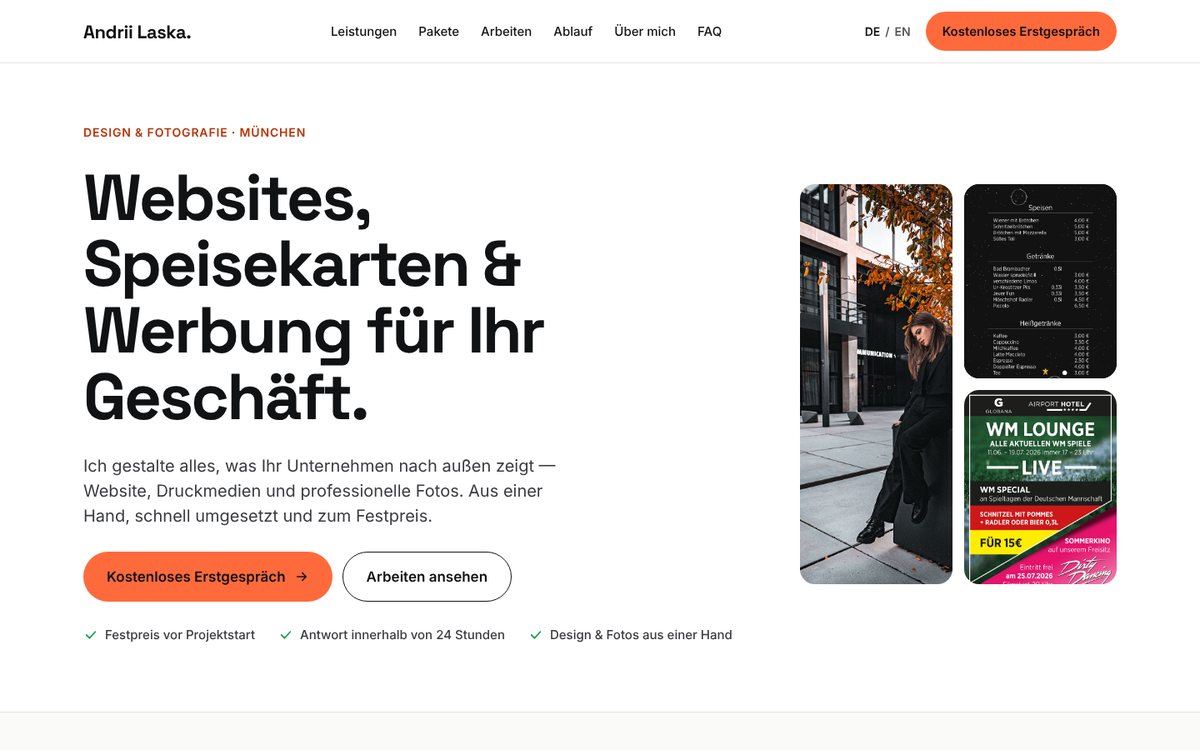
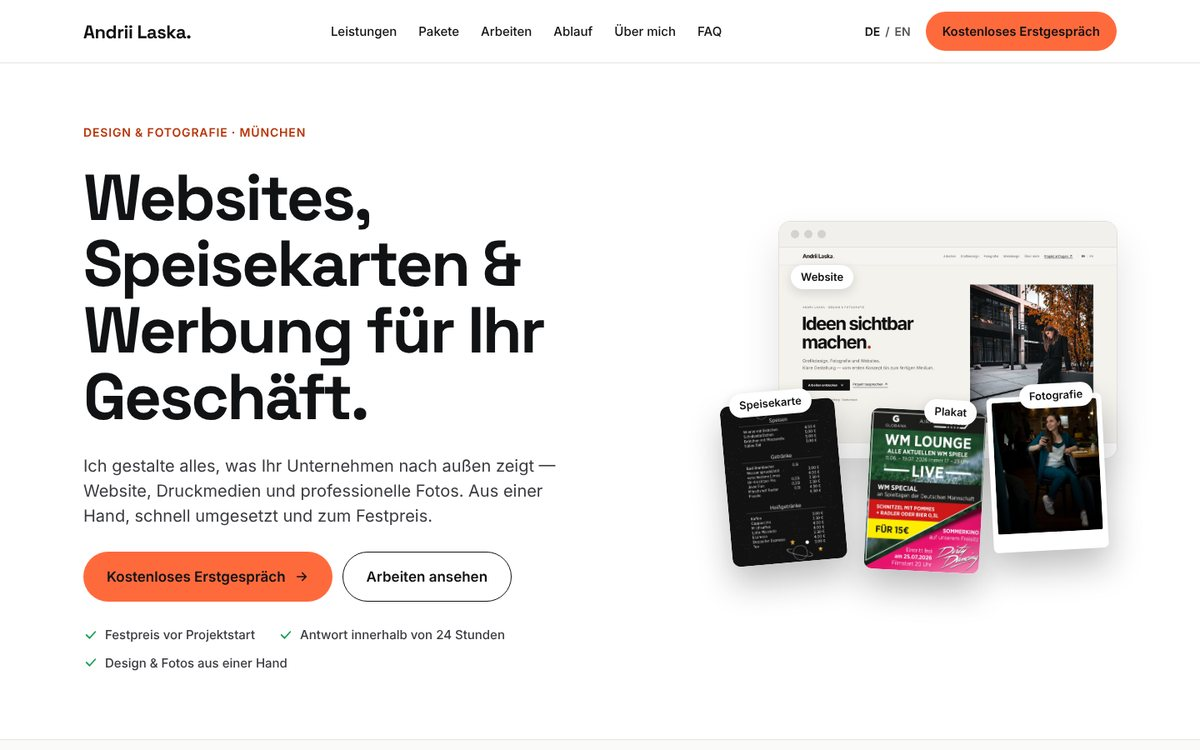
Arbeiten: Galaxien-Plakat statt Sommerkino, Sky du Mont ergänzt, Ost-Rock verschoben, aktueller Website-Screenshot
Claude-Session: https://claude.ai/code/session_017s33ag8cKpL8mX6Xy28NUa

Changed region(s): [[0.5858, 0.2453, 0.9558, 0.7973], [0.4625, 0.828, 0.6167, 0.8587], [0.0925, 0.8587, 0.2467, 0.8893]]

diff --git a/index.html b/index.html
@@ -28,9 +28,10 @@ section[id]{scroll-margin-top:80px}
 @media (max-width:640px){.hero{padding-top:40px!important;padding-bottom:64px!important}}
 .wg{display:grid;gap:28px 20px}
 .wg4{grid-template-columns:repeat(4,minmax(0,1fr))}
-.wgc{grid-template-columns:repeat(4,minmax(0,1fr))}
+.wgc{grid-template-columns:repeat(5,minmax(0,1fr))}
 .wg2{grid-template-columns:repeat(2,minmax(0,1fr))}
-@media (max-width:900px){.wg4,.wgc{grid-template-columns:repeat(2,minmax(0,1fr))}}
+@media (max-width:1100px){.wgc{display:flex;overflow-x:auto;scroll-snap-type:x mandatory;gap:16px;margin-left:-24px;margin-right:-24px;padding:0 24px 10px;scroll-padding-left:24px;-webkit-overflow-scrolling:touch}.wgc>figure{flex:0 0 38%;scroll-snap-align:start}}
+@media (max-width:900px){.wg4{grid-template-columns:repeat(2,minmax(0,1fr))}}
 @media (max-width:640px){.wg{gap:24px 14px}.wg2{grid-template-columns:minmax(0,1fr)}.wgc{display:flex;overflow-x:auto;scroll-snap-type:x mandatory;gap:14px;margin-left:-24px;margin-right:-24px;padding:0 24px 10px;scroll-padding-left:24px;-webkit-overflow-scrolling:touch}.wgc>figure{flex:0 0 80%;scroll-snap-align:start}.wg .wt{font-size:16px!important}.wg .wk{font-size:13px!important}}
 .hero-tag{display:inline-block;background:#FFFFFF;color:#111214;font:600 13px/1 Inter,sans-serif;padding:8px 12px;border-radius:999px;box-shadow:0 4px 14px rgba(17,18,20,.14);white-space:nowrap}
 @media (max-width:640px){.hero-tag{font-size:12px;padding:7px 10px}}
@@ -296,13 +297,14 @@ img{max-width:100%}
       <div class="wg wg4">
         <figure style="margin: 0; display: flex; flex-direction: column; gap: 12px"><img src="assets/img/imbissaufsteller.jpg" alt="Speisekarte für einen Imbiss mit Speisen und Getränken" loading="lazy" style="width: 100%; aspect-ratio: 4 / 5; object-fit: cover; object-position: top; border-radius: 14px; display: block; background: #E9E8E4"><figcaption style="display: flex; flex-direction: column; gap: 2px"><span class="wt" style="font-family: 'Space Grotesk', sans-serif; font-weight: 700; font-size: 18px; letter-spacing: -0.01em; color: #111214">Imbiss-Speisekarte</span><span class="wk" style="font-size: 14px; color: #55565A">Speisekarte</span></figcaption></figure>
         <figure style="margin: 0; display: flex; flex-direction: column; gap: 12px"><img src="assets/img/wm-lounge.jpg" alt="Plakat WM Lounge im Airport Hotel" loading="lazy" style="width: 100%; aspect-ratio: 4 / 5; object-fit: cover; object-position: top; border-radius: 14px; display: block; background: #E9E8E4"><figcaption style="display: flex; flex-direction: column; gap: 2px"><span class="wt" style="font-family: 'Space Grotesk', sans-serif; font-weight: 700; font-size: 18px; letter-spacing: -0.01em; color: #111214">WM Lounge</span><span class="wk" style="font-size: 14px; color: #55565A">Plakat · Event</span></figcaption></figure>
-        <figure style="margin: 0; display: flex; flex-direction: column; gap: 12px"><img src="assets/img/sommerkino.jpg" alt="Plakat Sommerkino auf dem Freisitz" loading="lazy" style="width: 100%; aspect-ratio: 4 / 5; object-fit: cover; object-position: top; border-radius: 14px; display: block; background: #E9E8E4"><figcaption style="display: flex; flex-direction: column; gap: 2px"><span class="wt" style="font-family: 'Space Grotesk', sans-serif; font-weight: 700; font-size: 18px; letter-spacing: -0.01em; color: #111214">Sommerkino 2026</span><span class="wk" style="font-size: 14px; color: #55565A">Plakat · Event</span></figcaption></figure>
+        <figure style="margin: 0; display: flex; flex-direction: column; gap: 12px"><img src="assets/img/galaxien-plakat.jpg" alt="Plakat Galaxien: Vortrag von Prof. Dr. Harald Lesch" loading="lazy" style="width: 100%; aspect-ratio: 4 / 5; object-fit: cover; object-position: top; border-radius: 14px; display: block; background: #E9E8E4"><figcaption style="display: flex; flex-direction: column; gap: 2px"><span class="wt" style="font-family: 'Space Grotesk', sans-serif; font-weight: 700; font-size: 18px; letter-spacing: -0.01em; color: #111214">Galaxien</span><span class="wk" style="font-size: 14px; color: #55565A">Plakat · Event</span></figcaption></figure>
         <figure style="margin: 0; display: flex; flex-direction: column; gap: 12px"><img src="assets/img/pronto-moda.jpg" alt="Werbeplakat für Pronto Moda" loading="lazy" style="width: 100%; aspect-ratio: 4 / 5; object-fit: cover; object-position: top; border-radius: 14px; display: block; background: #E9E8E4"><figcaption style="display: flex; flex-direction: column; gap: 2px"><span class="wt" style="font-family: 'Space Grotesk', sans-serif; font-weight: 700; font-size: 18px; letter-spacing: -0.01em; color: #111214">Pronto Moda</span><span class="wk" style="font-size: 14px; color: #55565A">Werbeplakat</span></figcaption></figure>
       </div>
       <div class="wg wgc" style="margin-top: 36px">
         <figure style="margin: 0; display: flex; flex-direction: column; gap: 12px"><img src="assets/img/summerstage-konzept.jpg" alt="Kampagne Summer Stage: Plakate, Banner, Flyer und Social Media" loading="lazy" style="width: 100%; aspect-ratio: 4 / 5; object-fit: contain; border-radius: 14px; display: block; background: #FFFFFF; box-shadow: inset 0 0 0 1px #E6E5E1"><figcaption style="display: flex; flex-direction: column; gap: 2px"><span class="wt" style="font-family: 'Space Grotesk', sans-serif; font-weight: 700; font-size: 18px; letter-spacing: -0.01em; color: #111214">Summer Stage</span><span class="wk" style="font-size: 14px; color: #55565A">Kampagne: Plakat, Banner, Flyer, Social Media</span></figcaption></figure>
-        <figure style="margin: 0; display: flex; flex-direction: column; gap: 12px"><img src="assets/img/ost-rock-konzept.jpg" alt="Kampagne Ost-Rock: Plakate, Flyer und Monitoranzeigen" loading="lazy" style="width: 100%; aspect-ratio: 4 / 5; object-fit: contain; border-radius: 14px; display: block; background: #FFFFFF; box-shadow: inset 0 0 0 1px #E6E5E1"><figcaption style="display: flex; flex-direction: column; gap: 2px"><span class="wt" style="font-family: 'Space Grotesk', sans-serif; font-weight: 700; font-size: 18px; letter-spacing: -0.01em; color: #111214">Ost-Rock</span><span class="wk" style="font-size: 14px; color: #55565A">Kampagne: Plakat, Flyer, Monitoranzeige</span></figcaption></figure>
+        <figure style="margin: 0; display: flex; flex-direction: column; gap: 12px"><img src="assets/img/sky-du-mont-konzept.jpg" alt="Kampagne Sky du Mont: Plakat, Flyer, Tickets, Mailsignatur und Monitoranzeigen" loading="lazy" style="width: 100%; aspect-ratio: 4 / 5; object-fit: contain; border-radius: 14px; display: block; background: #FFFFFF; box-shadow: inset 0 0 0 1px #E6E5E1"><figcaption style="display: flex; flex-direction: column; gap: 2px"><span class="wt" style="font-family: 'Space Grotesk', sans-serif; font-weight: 700; font-size: 18px; letter-spacing: -0.01em; color: #111214">Sky du Mont</span><span class="wk" style="font-size: 14px; color: #55565A">Kampagne: Plakat, Flyer, Ticket, Monitor</span></figcaption></figure>
         <figure style="margin: 0; display: flex; flex-direction: column; gap: 12px"><img src="assets/img/globana-fashion-sale-konzept.jpg" alt="Kampagne Globana Fashion Sale: Plakate, Flyer, Bauzaunbanner und Monitoranzeigen" loading="lazy" style="width: 100%; aspect-ratio: 4 / 5; object-fit: contain; border-radius: 14px; display: block; background: #FFFFFF; box-shadow: inset 0 0 0 1px #E6E5E1"><figcaption style="display: flex; flex-direction: column; gap: 2px"><span class="wt" style="font-family: 'Space Grotesk', sans-serif; font-weight: 700; font-size: 18px; letter-spacing: -0.01em; color: #111214">Globana Fashion Sale</span><span class="wk" style="font-size: 14px; color: #55565A">Kampagne: Plakat, Flyer, Bauzaunbanner, Monitor</span></figcaption></figure>
+        <figure style="margin: 0; display: flex; flex-direction: column; gap: 12px"><img src="assets/img/ost-rock-konzept.jpg" alt="Kampagne Ost-Rock: Plakate, Flyer und Monitoranzeigen" loading="lazy" style="width: 100%; aspect-ratio: 4 / 5; object-fit: contain; border-radius: 14px; display: block; background: #FFFFFF; box-shadow: inset 0 0 0 1px #E6E5E1"><figcaption style="display: flex; flex-direction: column; gap: 2px"><span class="wt" style="font-family: 'Space Grotesk', sans-serif; font-weight: 700; font-size: 18px; letter-spacing: -0.01em; color: #111214">Ost-Rock</span><span class="wk" style="font-size: 14px; color: #55565A">Kampagne: Plakat, Flyer, Monitoranzeige</span></figcaption></figure>
         <figure style="margin: 0; display: flex; flex-direction: column; gap: 12px"><img src="assets/img/keyvisuals-261-konzept.jpg" alt="Keyvisual-Serie mit Blumenmotiven" loading="lazy" style="width: 100%; aspect-ratio: 4 / 5; object-fit: contain; border-radius: 14px; display: block; background: #FFFFFF; box-shadow: inset 0 0 0 1px #E6E5E1"><figcaption style="display: flex; flex-direction: column; gap: 2px"><span class="wt" style="font-family: 'Space Grotesk', sans-serif; font-weight: 700; font-size: 18px; letter-spacing: -0.01em; color: #111214">Keyvisuals 261</span><span class="wk" style="font-size: 14px; color: #55565A">Keyvisual-Serie</span></figcaption></figure>
       </div>
       <div style="display: flex; flex-wrap: wrap; justify-content: space-between; align-items: baseline; gap: 6px 24px; border-top: 1.5px solid #111214; padding-top: 18px; margin: 64px 0 24px">

diff --git a/en/index.html b/en/index.html
@@ -28,9 +28,10 @@ section[id]{scroll-margin-top:80px}
 @media (max-width:640px){.hero{padding-top:40px!important;padding-bottom:64px!important}}
 .wg{display:grid;gap:28px 20px}
 .wg4{grid-template-columns:repeat(4,minmax(0,1fr))}
-.wgc{grid-template-columns:repeat(4,minmax(0,1fr))}
+.wgc{grid-template-columns:repeat(5,minmax(0,1fr))}
 .wg2{grid-template-columns:repeat(2,minmax(0,1fr))}
-@media (max-width:900px){.wg4,.wgc{grid-template-columns:repeat(2,minmax(0,1fr))}}
+@media (max-width:1100px){.wgc{display:flex;overflow-x:auto;scroll-snap-type:x mandatory;gap:16px;margin-left:-24px;margin-right:-24px;padding:0 24px 10px;scroll-padding-left:24px;-webkit-overflow-scrolling:touch}.wgc>figure{flex:0 0 38%;scroll-snap-align:start}}
+@media (max-width:900px){.wg4{grid-template-columns:repeat(2,minmax(0,1fr))}}
 @media (max-width:640px){.wg{gap:24px 14px}.wg2{grid-template-columns:minmax(0,1fr)}.wgc{display:flex;overflow-x:auto;scroll-snap-type:x mandatory;gap:14px;margin-left:-24px;margin-right:-24px;padding:0 24px 10px;scroll-padding-left:24px;-webkit-overflow-scrolling:touch}.wgc>figure{flex:0 0 80%;scroll-snap-align:start}.wg .wt{font-size:16px!important}.wg .wk{font-size:13px!important}}
 .hero-tag{display:inline-block;background:#FFFFFF;color:#111214;font:600 13px/1 Inter,sans-serif;padding:8px 12px;border-radius:999px;box-shadow:0 4px 14px rgba(17,18,20,.14);white-space:nowrap}
 @media (max-width:640px){.hero-tag{font-size:12px;padding:7px 10px}}
@@ -296,13 +297,14 @@ img{max-width:100%}
       <div class="wg wg4">
         <figure style="margin: 0; display: flex; flex-direction: column; gap: 12px"><img src="../assets/img/imbissaufsteller.jpg" alt="Snack bar menu with food and drinks" loading="lazy" style="width: 100%; aspect-ratio: 4 / 5; object-fit: cover; object-position: top; border-radius: 14px; display: block; background: #E9E8E4"><figcaption style="display: flex; flex-direction: column; gap: 2px"><span class="wt" style="font-family: 'Space Grotesk', sans-serif; font-weight: 700; font-size: 18px; letter-spacing: -0.01em; color: #111214">Snack bar menu</span><span class="wk" style="font-size: 14px; color: #55565A">Menu</span></figcaption></figure>
         <figure style="margin: 0; display: flex; flex-direction: column; gap: 12px"><img src="../assets/img/wm-lounge.jpg" alt="World Cup Lounge poster for the Airport Hotel" loading="lazy" style="width: 100%; aspect-ratio: 4 / 5; object-fit: cover; object-position: top; border-radius: 14px; display: block; background: #E9E8E4"><figcaption style="display: flex; flex-direction: column; gap: 2px"><span class="wt" style="font-family: 'Space Grotesk', sans-serif; font-weight: 700; font-size: 18px; letter-spacing: -0.01em; color: #111214">WM Lounge</span><span class="wk" style="font-size: 14px; color: #55565A">Poster · Event</span></figcaption></figure>
-        <figure style="margin: 0; display: flex; flex-direction: column; gap: 12px"><img src="../assets/img/sommerkino.jpg" alt="Summer cinema poster" loading="lazy" style="width: 100%; aspect-ratio: 4 / 5; object-fit: cover; object-position: top; border-radius: 14px; display: block; background: #E9E8E4"><figcaption style="display: flex; flex-direction: column; gap: 2px"><span class="wt" style="font-family: 'Space Grotesk', sans-serif; font-weight: 700; font-size: 18px; letter-spacing: -0.01em; color: #111214">Summer cinema 2026</span><span class="wk" style="font-size: 14px; color: #55565A">Poster · Event</span></figcaption></figure>
+        <figure style="margin: 0; display: flex; flex-direction: column; gap: 12px"><img src="../assets/img/galaxien-plakat.jpg" alt="Poster “Galaxien”: talk by Prof. Dr. Harald Lesch" loading="lazy" style="width: 100%; aspect-ratio: 4 / 5; object-fit: cover; object-position: top; border-radius: 14px; display: block; background: #E9E8E4"><figcaption style="display: flex; flex-direction: column; gap: 2px"><span class="wt" style="font-family: 'Space Grotesk', sans-serif; font-weight: 700; font-size: 18px; letter-spacing: -0.01em; color: #111214">Galaxien</span><span class="wk" style="font-size: 14px; color: #55565A">Poster · Event</span></figcaption></figure>
         <figure style="margin: 0; display: flex; flex-direction: column; gap: 12px"><img src="../assets/img/pronto-moda.jpg" alt="Promotional poster for Pronto Moda" loading="lazy" style="width: 100%; aspect-ratio: 4 / 5; object-fit: cover; object-position: top; border-radius: 14px; display: block; background: #E9E8E4"><figcaption style="display: flex; flex-direction: column; gap: 2px"><span class="wt" style="font-family: 'Space Grotesk', sans-serif; font-weight: 700; font-size: 18px; letter-spacing: -0.01em; color: #111214">Pronto Moda</span><span class="wk" style="font-size: 14px; color: #55565A">Promo poster</span></figcaption></figure>
       </div>
       <div class="wg wgc" style="margin-top: 36px">
         <figure style="margin: 0; display: flex; flex-direction: column; gap: 12px"><img src="../assets/img/summerstage-konzept.jpg" alt="Summer Stage campaign: posters, banners, flyers and social media" loading="lazy" style="width: 100%; aspect-ratio: 4 / 5; object-fit: contain; border-radius: 14px; display: block; background: #FFFFFF; box-shadow: inset 0 0 0 1px #E6E5E1"><figcaption style="display: flex; flex-direction: column; gap: 2px"><span class="wt" style="font-family: 'Space Grotesk', sans-serif; font-weight: 700; font-size: 18px; letter-spacing: -0.01em; color: #111214">Summer Stage</span><span class="wk" style="font-size: 14px; color: #55565A">Campaign: poster, banner, flyer, social media</span></figcaption></figure>
-        <figure style="margin: 0; display: flex; flex-direction: column; gap: 12px"><img src="../assets/img/ost-rock-konzept.jpg" alt="Ost-Rock campaign: posters, flyers and screen ads" loading="lazy" style="width: 100%; aspect-ratio: 4 / 5; object-fit: contain; border-radius: 14px; display: block; background: #FFFFFF; box-shadow: inset 0 0 0 1px #E6E5E1"><figcaption style="display: flex; flex-direction: column; gap: 2px"><span class="wt" style="font-family: 'Space Grotesk', sans-serif; font-weight: 700; font-size: 18px; letter-spacing: -0.01em; color: #111214">Ost-Rock</span><span class="wk" style="font-size: 14px; color: #55565A">Campaign: poster, flyer, screen ad</span></figcaption></figure>
+        <figure style="margin: 0; display: flex; flex-direction: column; gap: 12px"><img src="../assets/img/sky-du-mont-konzept.jpg" alt="Sky du Mont campaign: poster, flyer, tickets, email signature and screen ads" loading="lazy" style="width: 100%; aspect-ratio: 4 / 5; object-fit: contain; border-radius: 14px; display: block; background: #FFFFFF; box-shadow: inset 0 0 0 1px #E6E5E1"><figcaption style="display: flex; flex-direction: column; gap: 2px"><span class="wt" style="font-family: 'Space Grotesk', sans-serif; font-weight: 700; font-size: 18px; letter-spacing: -0.01em; color: #111214">Sky du Mont</span><span class="wk" style="font-size: 14px; color: #55565A">Campaign: poster, flyer, ticket, screen ad</span></figcaption></figure>
         <figure style="margin: 0; display: flex; flex-direction: column; gap: 12px"><img src="../assets/img/globana-fashion-sale-konzept.jpg" alt="Globana Fashion Sale campaign: posters, flyers, fence banners and screen ads" loading="lazy" style="width: 100%; aspect-ratio: 4 / 5; object-fit: contain; border-radius: 14px; display: block; background: #FFFFFF; box-shadow: inset 0 0 0 1px #E6E5E1"><figcaption style="display: flex; flex-direction: column; gap: 2px"><span class="wt" style="font-family: 'Space Grotesk', sans-serif; font-weight: 700; font-size: 18px; letter-spacing: -0.01em; color: #111214">Globana Fashion Sale</span><span class="wk" style="font-size: 14px; color: #55565A">Campaign: poster, flyer, fence banner, screen ad</span></figcaption></figure>
+        <figure style="margin: 0; display: flex; flex-direction: column; gap: 12px"><img src="../assets/img/ost-rock-konzept.jpg" alt="Ost-Rock campaign: posters, flyers and screen ads" loading="lazy" style="width: 100%; aspect-ratio: 4 / 5; object-fit: contain; border-radius: 14px; display: block; background: #FFFFFF; box-shadow: inset 0 0 0 1px #E6E5E1"><figcaption style="display: flex; flex-direction: column; gap: 2px"><span class="wt" style="font-family: 'Space Grotesk', sans-serif; font-weight: 700; font-size: 18px; letter-spacing: -0.01em; color: #111214">Ost-Rock</span><span class="wk" style="font-size: 14px; color: #55565A">Campaign: poster, flyer, screen ad</span></figcaption></figure>
         <figure style="margin: 0; display: flex; flex-direction: column; gap: 12px"><img src="../assets/img/keyvisuals-261-konzept.jpg" alt="Key visual series with floral motifs" loading="lazy" style="width: 100%; aspect-ratio: 4 / 5; object-fit: contain; border-radius: 14px; display: block; background: #FFFFFF; box-shadow: inset 0 0 0 1px #E6E5E1"><figcaption style="display: flex; flex-direction: column; gap: 2px"><span class="wt" style="font-family: 'Space Grotesk', sans-serif; font-weight: 700; font-size: 18px; letter-spacing: -0.01em; color: #111214">Keyvisuals 261</span><span class="wk" style="font-size: 14px; color: #55565A">Key visual series</span></figcaption></figure>
       </div>
       <div style="display: flex; flex-wrap: wrap; justify-content: space-between; align-items: baseline; gap: 6px 24px; border-top: 1.5px solid #111214; padding-top: 18px; margin: 64px 0 24px">
